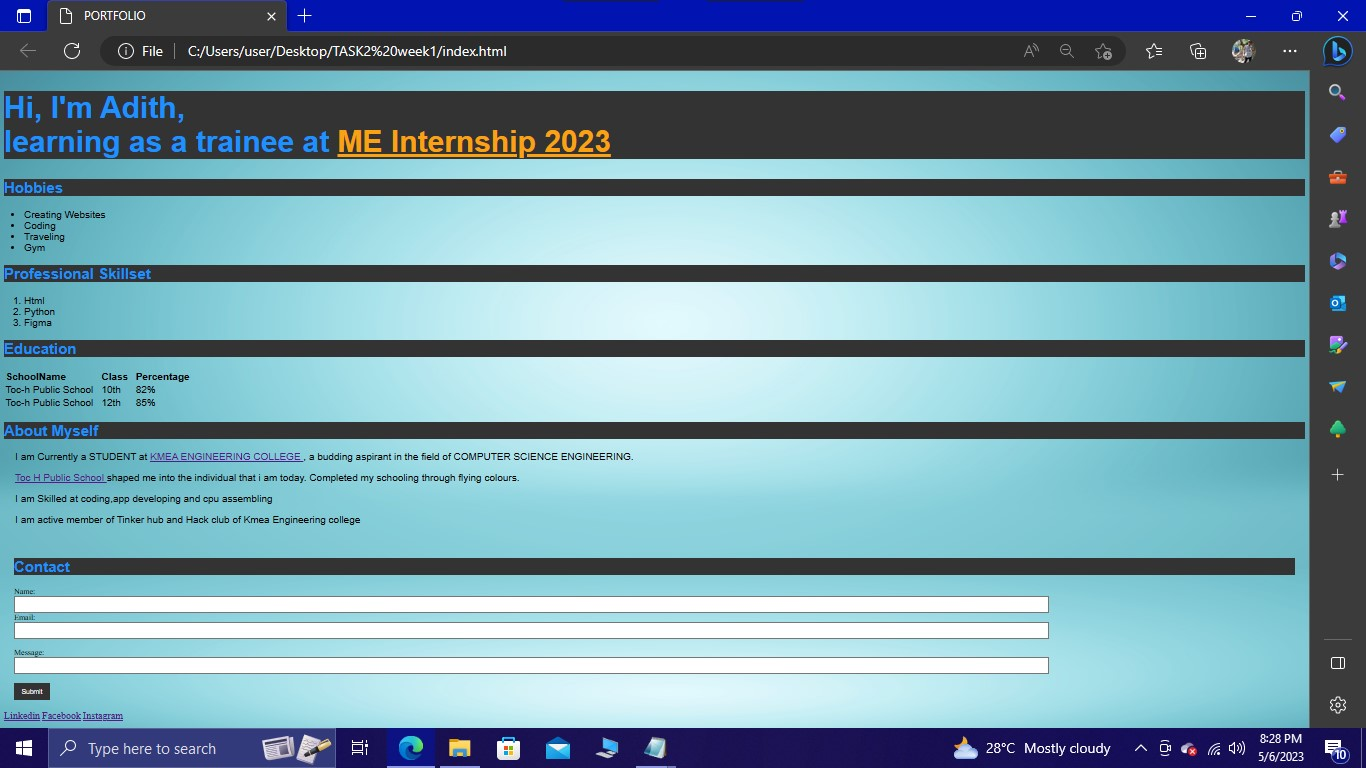
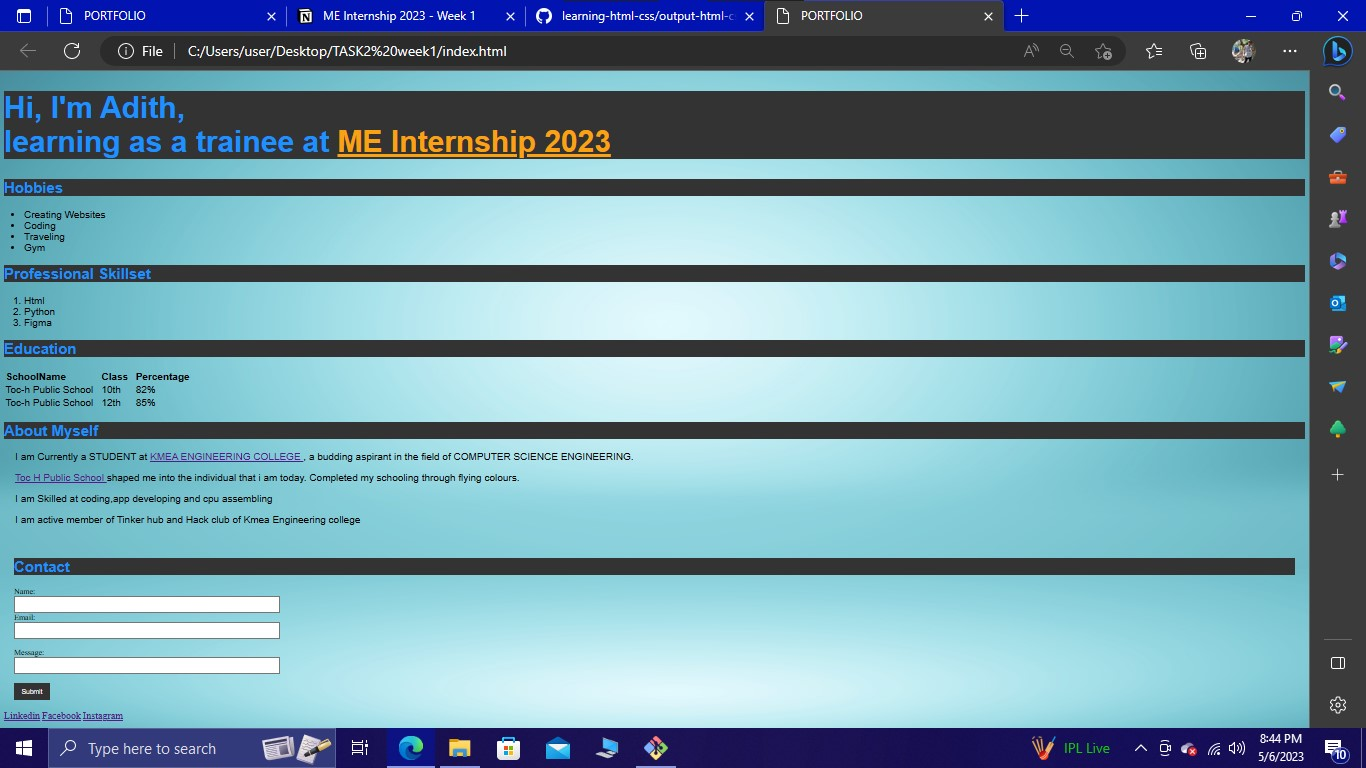
made changes to styles.css

diff --git a/styles.css b/styles.css
@@ -1,58 +1,58 @@
 h1{
-font-size: 60px;
-font-family: Sans-serif;
+	font-size: 60px;
+	font-family: Sans-serif;
 }
 h2
 {
-font-size: 30px;
-font-family: Sans-serif;
+	font-size: 30px;
+	font-family: Sans-serif;
 }
 p
 {
-font-size: 20px;
-font-family: Sans-serif;
+	font-size: 20px;
+	font-family: Sans-serif;
 }
 li
 {
-font-size: 20px;
-font-family: Sans-serif;
+	font-size: 20px;
+	font-family: Sans-serif;
 }
 th
 {
-font-size: 20px;
-font-family: Sans-serif;
+	font-size: 20px;
+	font-family: Sans-serif;
 }
 td
 {
-font-size: 20px;
-font-family: Sans-serif;
+	font-size: 20px;
+	font-family: Sans-serif;
 
 }
 
 
 .box-1{
-color:DodgerBlue;
-background-color:#333;
+	color:DodgerBlue;
+	background-color:#333;
 
 }
 .container{
-width:80%;
-margin:auto;
+	width:80%;
+	margin:auto;
 }
 
 .my-form
 {
-padding:20px;
+	padding:20px;
 }
 
 .my-form{
 
-display:block;
+	display:block;
 }
 
 .my-form input[type="text"], .my-form textarea{
 	padding:8px;
-	width:80%
+	width:20%
 	
 }
 
